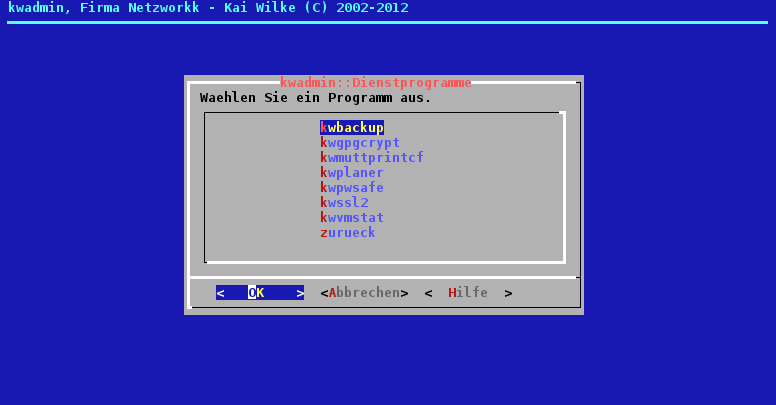
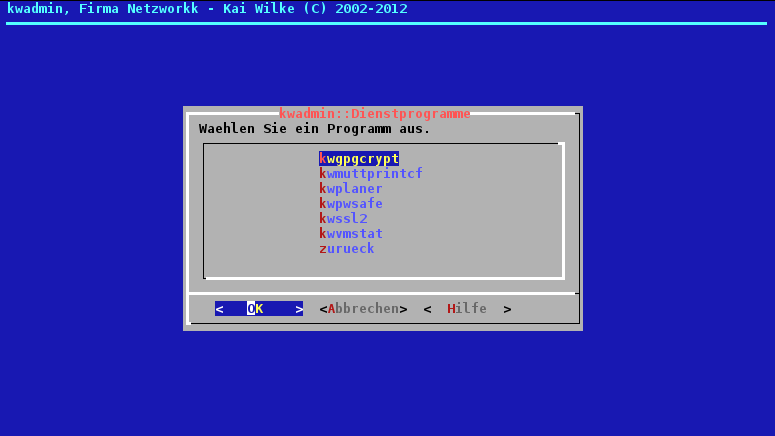
update -kwbackup wurde geloescht.

Changed region(s): [[0.2168, 0.1778, 0.7742, 0.8], [0.0, 0.0, 0.991, 0.0593]]

diff --git a/kwtools/doc/html/info/kwtools_screenshots/kwadmin.html b/kwtools/doc/html/info/kwtools_screenshots/kwadmin.html
@@ -7,7 +7,7 @@
         <meta name="author" content="Kai Wilke / netzworkk.de">
         <meta name="publisher" content="Kai Wilke / netzworkk.de">
         <meta name="copyright" content="Kai Wilke / netzworkk.de">
-        <meta name="date" content="2012-02-13">
+        <meta name="date" content="2012-03-06">
         <meta http-equiv="content-type" content="text/html;charset=iso-8859-1">
         <meta name="content-language" content="de">
 	<meta name="Robots" content="index,follow">
@@ -109,7 +109,7 @@
                 </tr>
                 <tr>
                         <td></td>
-                        <td align="center"><img src="../../images/kwtools_screenshots/kwadmin_utils.png" alt="kwadmin_utils" width="776" height="405" align="top" border="0"></td>
+                        <td align="center"><img src="../../images/kwtools_screenshots/kwadmin_utils.png" alt="kwadmin_utils" width="775" height="436" align="top" border="0"></td>
                         <td></td>
                 </tr>
         </tbody>
